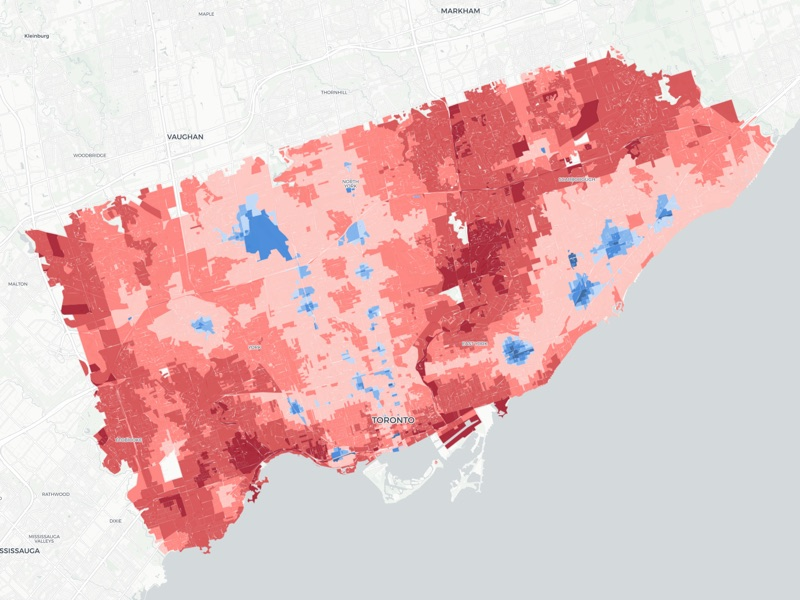
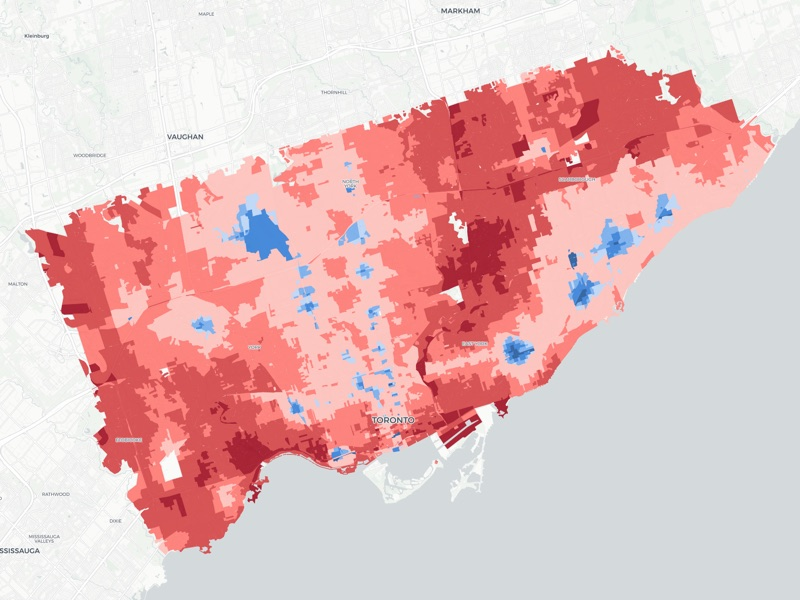
Rebuild the transit map with the seam, dark-mode, and mobile fixes
Regenerated from commute-mode-ratios at d61228b: seamless block fills, a
single ramp shared by both themes, and a draggable bottom sheet on mobile.
Thumbnail regenerated to match the new rendering.

diff --git a/transit-driving/index.html b/transit-driving/index.html
@@ -20,7 +20,7 @@
     --highlight:      #0b0b0b;
     --shadow:         0 1px 2px rgba(11,11,11,.06), 0 8px 28px rgba(11,11,11,.12);
 
-    /* Sequential: one hue, light -> dark. Palette blue, steps 100..700. */
+    /* Shared by both themes. Sequential: one hue, light -> dark, palette blue. */
     --seq-1: #cde2fb; --seq-2: #9ec5f4; --seq-3: #6da7ec; --seq-4: #3987e5;
     --seq-5: #256abf; --seq-6: #184f95; --seq-7: #0d366b;
 
@@ -31,8 +31,8 @@
     --div-5: #ffbdb7; --div-6: #ff6f69; --div-7: #d2383a; --div-8: #9b0015;
   }
 
-  /* Dark steps are selected, not flipped: sequential recedes toward the dark
-     surface at the low end, and each diverging arm lightens toward its extreme. */
+  /* Dark mode swaps surfaces and ink but keeps the data ramps identical, so the
+     same value reads as the same colour in either theme. */
   @media (prefers-color-scheme: dark) {
     :root:not([data-theme="light"]) {
       --surface:        #1a1a19;
@@ -45,11 +45,6 @@
       --highlight:      #ffffff;
       --shadow:         0 1px 2px rgba(0,0,0,.4), 0 8px 28px rgba(0,0,0,.55);
 
-      --seq-1: #0d366b; --seq-2: #184f95; --seq-3: #256abf; --seq-4: #3987e5;
-      --seq-5: #6da7ec; --seq-6: #9ec5f4; --seq-7: #cde2fb;
-
-      --div-1: #b7d3f6; --div-2: #6da7ec; --div-3: #2a78d6; --div-4: #184f95;
-      --div-5: #9b0015; --div-6: #d2383a; --div-7: #ff6f69; --div-8: #ffbdb7;
     }
   }
   :root[data-theme="dark"] {
@@ -63,11 +58,6 @@
     --highlight:      #ffffff;
     --shadow:         0 1px 2px rgba(0,0,0,.4), 0 8px 28px rgba(0,0,0,.55);
 
-    --seq-1: #0d366b; --seq-2: #184f95; --seq-3: #256abf; --seq-4: #3987e5;
-    --seq-5: #6da7ec; --seq-6: #9ec5f4; --seq-7: #cde2fb;
-
-    --div-1: #b7d3f6; --div-2: #6da7ec; --div-3: #2a78d6; --div-4: #184f95;
-    --div-5: #9b0015; --div-6: #d2383a; --div-7: #ff6f69; --div-8: #ffbdb7;
   }
 
   * { box-sizing: border-box; }
@@ -95,7 +85,6 @@
     width: 332px;
     max-height: calc(100% - 32px);
     overflow-y: auto;
-    padding: 18px 18px 16px;
     background: var(--panel);
     -webkit-backdrop-filter: blur(14px);
     backdrop-filter: blur(14px);
@@ -103,6 +92,10 @@
     border-radius: 10px;
     box-shadow: var(--shadow);
   }
+
+  .panel-scroll { padding: 18px 18px 16px; }
+  /* The sheet handle is mobile-only; on desktop the panel is a plain card. */
+  .panel-handle-row { display: none; }
 
   h1 {
     margin: 0 0 5px;
@@ -200,13 +193,79 @@
   .leaflet-bar a:hover { background: var(--surface-sunk) !important; }
 
   @media (max-width: 720px) {
+    /* Bottom sheet, dragged by its handle between three snap states. */
     #panel {
-      top: auto; bottom: 0; left: 0;
-      width: 100%;
-      max-height: 62%;
-      border-radius: 12px 12px 0 0;
+      position: fixed;
+      top: auto; bottom: 0; left: 0; right: 0;
+      width: auto;
+      max-height: 42vh;
+      border-radius: 14px 14px 0 0;
       border-left: 0; border-right: 0; border-bottom: 0;
+      box-shadow: 0 -4px 20px rgba(0, 0, 0, .18);
+      transition: max-height 220ms ease;
     }
+
+    /* These vh values are only a pre-JS fallback. On mobile browsers CSS vh is pinned
+       to the largest viewport, as if the address bar were hidden, so a sheet sized in
+       vh overflows the real viewport whenever the bar is showing. The live heights are
+       set inline from window.innerHeight instead. */
+    #panel[data-state="minimized"] { max-height: 52px; }
+    #panel[data-state="expanded"] { max-height: 82vh; }
+    #panel.dragging { transition: none; }
+
+    .panel-handle-row {
+      position: sticky;
+      top: 0;
+      z-index: 1;
+      display: flex;
+      align-items: center;
+      background: var(--panel);
+    }
+
+    .panel-drag-handle {
+      display: flex;
+      flex: 1;
+      flex-direction: column;
+      align-items: center;
+      gap: 6px;
+      padding: 10px 0 6px;
+      border: 0;
+      background: none;
+      color: var(--text-secondary);
+      font: inherit;
+      cursor: grab;
+      /* Without this the browser claims the gesture and scrolls the panel instead. */
+      touch-action: none;
+      user-select: none;
+    }
+    .handle-bar { width: 36px; height: 4px; border-radius: 2px; background: var(--hairline); }
+    .handle-label {
+      font-size: 10.5px;
+      letter-spacing: .08em;
+      text-transform: uppercase;
+      color: var(--text-muted);
+    }
+    #panel[data-state="minimized"] .handle-label { display: none; }
+    #panel[data-state="expanded"] .handle-label::after { content: " (tap to collapse)"; }
+
+    /* Independent of the drag/tap handling, so there is always a way back to the map. */
+    .panel-hide-btn {
+      flex: none;
+      margin-right: 12px;
+      padding: 5px 10px;
+      border: 1px solid var(--hairline);
+      border-radius: 999px;
+      background: var(--surface-sunk);
+      color: var(--text-secondary);
+      font: inherit;
+      font-size: 11px;
+      cursor: pointer;
+    }
+    #panel[data-state="minimized"] .panel-hide-btn { display: none; }
+    /* Collapse to exactly the handle row, so no stray line of content peeks out. */
+    #panel[data-state="minimized"] .panel-scroll { display: none; }
+
+    .panel-scroll { padding: 4px 18px 24px; }
     .leaflet-control-attribution { display: none; }
   }
 
@@ -221,7 +280,16 @@
 <div id="stage">
   <div id="map"></div>
 
-  <div id="panel">
+  <aside id="panel" data-state="collapsed">
+    <div class="panel-handle-row">
+      <button class="panel-drag-handle" id="panel-toggle" aria-label="Toggle panel" aria-expanded="false">
+        <span class="handle-bar"></span>
+        <span class="handle-label">Legend &amp; views</span>
+      </button>
+      <button class="panel-hide-btn" id="panel-hide" aria-label="Hide panel and show the map">Hide</button>
+    </div>
+
+    <div class="panel-scroll">
     <h1 id="title"></h1>
     <p class="subtitle" id="subtitle"></p>
 
@@ -242,7 +310,8 @@
     <div id="readout"></div>
 
     <footer id="footer"></footer>
-  </div>
+    </div>
+  </aside>
 </div>
 
 <script src="https://cdn.jsdelivr.net/npm/leaflet@1.9.4/dist/leaflet.js"></script>
@@ -333,7 +402,14 @@ const CARTO = '&copy; <a href="https://carto.com/attributions">CARTO</a>';
 
 /* Basemap in two pieces so block fills sit between the streets and the place
    labels -- labels stay legible over even the darkest class. */
-map.createPane("blocks").style.zIndex = 350;
+const blocksPane = map.createPane("blocks");
+blocksPane.style.zIndex = 350;
+/* Translucency is applied ONCE to the whole pane rather than per polygon. With a
+   per-polygon fillOpacity, each shared border is rasterised twice and the two
+   antialiased coverages composite darker than either fill -- which is the black
+   webbing between blocks, worst when zoomed out and almost every pixel is an edge
+   pixel. Opaque fills composited as one layer have no seam to darken. */
+blocksPane.style.opacity = 0.85;
 const labelPane = map.createPane("labels");
 labelPane.style.zIndex = 450;
 labelPane.style.pointerEvents = "none";
@@ -358,12 +434,28 @@ drawBasemap();
 
 const renderer = L.canvas({ pane: "blocks", padding: 0.3 });
 
+/* Welding neighbours together is only needed while blocks are near pixel size. Zoomed
+   in, the same weight would visibly fatten each block and paper over the genuine gaps
+   -- ravines, rail corridors, blocks with no routable path -- so it tapers off. */
+function strokeWeightForZoom() {
+  const zoom = map.getZoom();
+  if (zoom <= 11) return 1.5;
+  if (zoom <= 13) return 1.0;
+  return 0.5;
+}
+
 const blocks = DATA.geometry.map((polygons, i) => {
   const rings = polygons.map((polygon) => polygon.map(decodeRing));
   const layer = L.polygon(rings, {
     renderer: renderer,
-    stroke: false,
-    fillOpacity: 0.82,
+    /* A hairline stroke in the fill's own colour closes the sub-pixel slivers left
+       by simplifying each block independently: neighbours no longer round their
+       shared border to identical vertices, so without it the basemap shows through
+       the gap as a bright thread. */
+    stroke: true,
+    weight: strokeWeightForZoom(),
+    color: "#000",
+    fillOpacity: 1,
     fillColor: "#000",
   });
   layer.index = i;
@@ -403,7 +495,9 @@ function repaint() {
   const ramp = ramps[spec.kind];
   const values = DATA[currentMetric];
   for (const layer of blocks) {
-    layer.options.fillColor = ramp[classOf(values[layer.index], spec.edges)];
+    const colour = ramp[classOf(values[layer.index], spec.edges)];
+    layer.options.fillColor = colour;
+    layer.options.color = colour;
   }
   renderer._redraw();
 }
@@ -461,6 +555,15 @@ function renderReadout(index) {
     <p class="verdict">${verdict}</p>`;
 }
 
+let appliedStrokeWeight = strokeWeightForZoom();
+map.on("zoomend", () => {
+  const weight = strokeWeightForZoom();
+  if (weight === appliedStrokeWeight) return;
+  appliedStrokeWeight = weight;
+  for (const layer of blocks) layer.options.weight = weight;
+  renderer._redraw();
+});
+
 /* Interaction ------------------------------------------------------------- */
 
 blockGroup.on("mouseover", (event) => {
@@ -514,6 +617,104 @@ window.matchMedia("(prefers-color-scheme: dark)").addEventListener("change", () 
   renderLegend();
 });
 
+/* Mobile bottom sheet ----------------------------------------------------- */
+
+/* Dragged by its handle between three snap states: minimized (handle only),
+   collapsed (the default peek), expanded. Dragging down from the default therefore
+   has somewhere smaller to land instead of springing back. Pointer events cover
+   mouse and touch in one API. No-op on desktop, where the panel is a plain card. */
+
+const MOBILE_BREAKPOINT = "(max-width: 720px)";
+const isMobile = () => window.matchMedia(MOBILE_BREAKPOINT).matches;
+
+const panel = document.getElementById("panel");
+const panelToggle = document.getElementById("panel-toggle");
+const panelHide = document.getElementById("panel-hide");
+
+const PANEL_MINIMIZED_PX = 52;
+const PANEL_COLLAPSED_VH = 0.42;
+const PANEL_EXPANDED_VH = 0.82;
+const DRAG_MOVE_THRESHOLD = 6;
+
+function panelTargetHeight(state) {
+  // window.innerHeight is the real visible viewport, unlike CSS vh on mobile.
+  const vh = window.innerHeight;
+  if (state === "minimized") return PANEL_MINIMIZED_PX;
+  if (state === "expanded") return vh * PANEL_EXPANDED_VH;
+  return vh * PANEL_COLLAPSED_VH;
+}
+
+function setPanelState(state) {
+  panel.dataset.state = state;
+  panelToggle.setAttribute("aria-expanded", String(state === "expanded"));
+  // An inline max-height is not scoped by media query, so it would clamp the desktop
+  // card too -- only set it on mobile, and clear it when crossing back.
+  if (isMobile() && !panel.classList.contains("dragging")) {
+    panel.style.maxHeight = `${panelTargetHeight(state)}px`;
+  } else if (!isMobile()) {
+    panel.style.maxHeight = "";
+  }
+  map.invalidateSize();
+}
+
+panelHide.addEventListener("click", () => setPanelState("minimized"));
+
+(function setupPanelDrag() {
+  let dragging = false, startY = 0, startHeight = 0, moved = false, lastHeight = 0;
+
+  panelToggle.addEventListener("pointerdown", (event) => {
+    if (!isMobile()) return;
+    dragging = true;
+    moved = false;
+    startY = event.clientY;
+    startHeight = panel.getBoundingClientRect().height;
+    lastHeight = startHeight;
+    panel.classList.add("dragging");
+    panel.style.maxHeight = "none";
+    try {
+      panelToggle.setPointerCapture(event.pointerId);
+    } catch (err) {
+      // Pointer capture only keeps tracking if the finger slides off the handle;
+      // the drag maths below works without it.
+    }
+  });
+
+  panelToggle.addEventListener("pointermove", (event) => {
+    if (!dragging) return;
+    const deltaY = startY - event.clientY; // positive while dragging upward
+    if (Math.abs(deltaY) > DRAG_MOVE_THRESHOLD) moved = true;
+    const maxHeight = window.innerHeight * PANEL_EXPANDED_VH + 24;
+    lastHeight = Math.min(maxHeight, Math.max(PANEL_MINIMIZED_PX, startHeight + deltaY));
+    panel.style.height = `${lastHeight}px`;
+  });
+
+  function endDrag() {
+    if (!dragging) return;
+    dragging = false;
+    panel.classList.remove("dragging");
+    panel.style.height = "";
+    panel.style.maxHeight = "";
+    if (!moved) return; // a plain tap; the click listener below handles it
+
+    const vh = window.innerHeight;
+    const collapsedPx = vh * PANEL_COLLAPSED_VH;
+    const expandedPx = vh * PANEL_EXPANDED_VH;
+    if (lastHeight < (PANEL_MINIMIZED_PX + collapsedPx) / 2) setPanelState("minimized");
+    else if (lastHeight < (collapsedPx + expandedPx) / 2) setPanelState("collapsed");
+    else setPanelState("expanded");
+  }
+
+  panelToggle.addEventListener("pointerup", endDrag);
+  panelToggle.addEventListener("pointercancel", endDrag);
+
+  // Browsers only fire click when no real drag happened, which is a more reliable
+  // tap signal on touch hardware than a hand-rolled pixel threshold.
+  panelToggle.addEventListener("click", () => {
+    if (!isMobile()) return;
+    setPanelState(panel.dataset.state === "expanded" ? "collapsed" : "expanded");
+  });
+})();
+
 /* Boot -------------------------------------------------------------------- */
 
 document.getElementById("title").textContent = DATA.title;
@@ -526,10 +727,13 @@ document.getElementById("footer").innerHTML =
 repaint();
 renderLegend();
 renderReadout(null);
+setPanelState("collapsed");
 frameCity();
 
 let resizeTimer;
 window.addEventListener("resize", () => {
+  // Also covers the mobile address bar showing/hiding, which changes innerHeight.
+  if (!panel.classList.contains("dragging")) setPanelState(panel.dataset.state);
   clearTimeout(resizeTimer);
   resizeTimer = setTimeout(frameCity, 200);
 });
